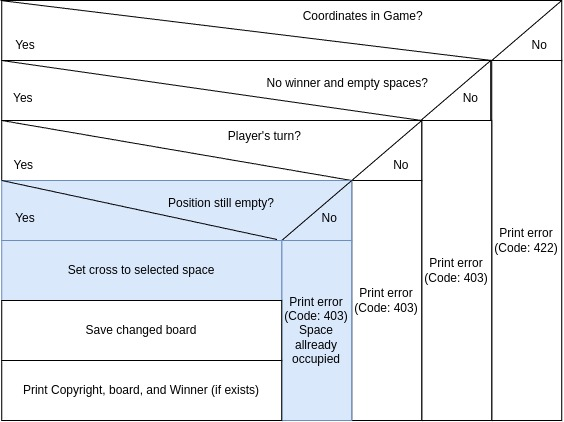
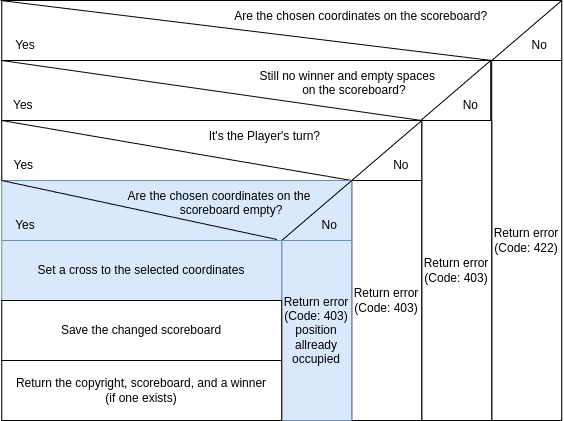
[FIX] change images, fix translation

diff --git a/README.md b/README.md
@@ -1,8 +1,8 @@
-# Apprenticeship Challenge for future IT specialists: Software Development
-You need to successfully solve this challenge, if you want to snatch yourself an apprenticeship at [MÜNSMEDIA GmbH](https://muensmedia.de) as an IT Specialist in Software Development. 👾 🤖 😎
+# Apprenticeship Challenge for Fachinformatiker*in Anwendungsentwicklung
+You need to successfully solve this challenge, if you want to snatch yourself an apprenticeship at [MÜNSMEDIA GmbH](https://muensmedia.de) as a Fachinformatiker*in Anwendungsentwicklung. 👾 🤖 😎
 
 ## Tic-Tac-Toe
-[Tic-Tac-Toe](https://de.wikipedia.org/wiki/Tic-Tac-Toe), noughts and crosses, or Xs and Os is a two-player game, that you're probably already familiar with.
+[Tic-Tac-Toe](https://en.wikipedia.org/wiki/Tic-tac-toe), noughts and crosses, or Xs and Os is a two-player game, that you're probably already familiar with.
 
 ## Gameplay / How it works
 The game board consists of 9 empty spaces, aligned in a three-by-three grid.
@@ -12,43 +12,43 @@ The player who succeeds in placing three of their marks in a horizontal, vertica
 If no winner has been decided after all 9 spaces have been filled, the game ends in a draw.
 
 ### Example: Player X has won
-![X hat gewonnen](https://wikimedia.org/api/rest_v1/media/math/render/svg/595038905e2e65568a90ec43d36a9c2a537c1d0a)
+![X won](https://wikimedia.org/api/rest_v1/media/math/render/svg/595038905e2e65568a90ec43d36a9c2a537c1d0a)
 
-### Exapmle:
-![Unentschieden](https://wikimedia.org/api/rest_v1/media/math/render/svg/5ba8a4fc55e4259c807ef326b28088e6e46d5e42)
+### Example: A tie game
+![tie](https://wikimedia.org/api/rest_v1/media/math/render/svg/5ba8a4fc55e4259c807ef326b28088e6e46d5e42)
 
 # Your Tasks
 
-## 1.) Complete this Struktogramm
+## 1.) Complete this structogram
 
-A Nassi-Shneiderman-Diagram or **Struktogramm** is a diagram to show program drafts as a method for structural programming.
+A Nassi–Shneiderman diagram or **structogram** is a diagram to show program drafts as a method for structural programming.
 
-A Struktogramm contains the following structural blocks, that are nested inside or combined with each other:
+A structogram contains the following structural blocks, that are nested inside or combined with each other:
 
 ### Process
-![](https://upload.wikimedia.org/wikipedia/commons/a/a2/Process_Block2.jpg)
+![process](https://upload.wikimedia.org/wikipedia/commons/a/a2/Process_Block2.jpg)
 
-Every Process (or Chain of Commands), a program should do, are written inside a rectangle block.
+Every process (or chain of commands), a program should do, are written inside a rectangle block.
 
-### If-Case
-![](https://upload.wikimedia.org/wikipedia/commons/7/79/Two-Way_Branch.jpg)
+### Case distinction
+![case](https://upload.wikimedia.org/wikipedia/commons/7/79/Two-Way_Branch.jpg)
 
-If the Condition is met (true), Instruction 1 will run.
+If the condition is met (true), instruction 1 will run.
 
-If the Condition isn't met (false), Instruction 2 will run. Instruction Blocks can also have multiple Instructions.
+If the condition isn't met (false), instruction 2 will run. Instruction blocks can also have multiple instructions.
 
 ### Loop with exit condition (While-Loop)
-![](https://upload.wikimedia.org/wikipedia/commons/b/be/Test_Last.jpg)
+![loop](https://upload.wikimedia.org/wikipedia/commons/b/be/Test_Last.jpg)
 
 It needs at least one loop, because the Repeat condition is checked **after** one loop. If this is true, the loop continues.
 
-### Complete Struktogram for Tic-Tac-Toe Game
+### Complete structogram for Tic-Tac-Toe Game
 
-We started creating a Struktogram for the Tic-Tac-Toe Game, but your future trainer Malte isn't sure about the contents from the parts `(1), (2), (3), (4), (5), (6), (7)`.
+We started creating a structogram for the Tic-Tac-Toe game, but your future trainer Malte isn't sure about the contents from the parts `(1), (2), (3), (4), (5), (6), (7)`.
 
 *Solve this task and email us your solution.*
 
-![tic-tac-toe-struktogramm](./docs/tic-tac-toe-struktogramm.jpg)
+![tic-tac-toe-structogram](./docs/tic-tac-toe-struktogramm.jpg)
 
 ## 2.) Getting ready to code
 Now that you know how Tic-Tac-Toe works, we want to code it together.
@@ -58,7 +58,7 @@ We want to see and work together on your source code. We use the platform GitHub
 ### Please do the following steps:
 - [ ] You [already own a Github-Account](https://github.com/login)  **or** you [create yourself a free GitHub-Account](https://github.com/join)
 - [ ] After signing in to GitHub.com:
-- [ ] Copy our source code to your GitHub-Account. Just [folgenden Link klicken](https://github.com/muensmedia/testaufgabe/generate).
+- [ ] Copy our source code to your GitHub-Account. Just [click here](https://github.com/muensmedia/testaufgabe/generate).
   - **Please set the visibility of the new repository - as default - to 'Public'.**
 - [ ] Now scroll down the newly created GitHub repository until you see these instructions.
 - [ ] You continue from this point in the repository you have just created.
@@ -74,13 +74,13 @@ We want to see and work together on your source code. We use the platform GitHub
 - [ ] In the row `GitHub github.com` click the `three dots` followed by `Edit Permissions`
 - [ ] Additionally select `public_repo` and `repo` and save with `Update permissions`.
 - [ ] Confirm your changes with `Authorize gitpod-io` and your password if applicable
-- [ ] Now open these instructions. To do this, right-click on the file `REDAME.md` and then on `Open Preview`.
+- [ ] Now open these instructions. To do this, right-click on the file `README.md` and then on `Open Preview`.
 - [ ] Continue with the instructions in your Gitpod programming environment.
 
-## 3.) Change Copyright
-Your Tic-Tac-Toe Webapp consists of a frontend and backend part.  
+## 3.) Change copyright
+Your Tic-Tac-Toe webapp consists of a frontend and backend part.  
 As frontend, we use a tool called `Swagger`, so we can try out API's with a graphical interface.
-Swagger is already open, as you open GitPod's Web-IDE.
+Swagger is already open, as you open GitPod's programming environment.
 As backend, we use a [PHP-App](https://www.php.net/manual/en/), based on the framework [Laravel](https://laravel.com/docs/9.x).  
 
 We have prepared a function that displays this game's copyright. ©
@@ -91,15 +91,15 @@ We have prepared a function that displays this game's copyright. ©
 - [ ] Send this request by clicking on `Execute`.
 - You can view the output with the current copyright at `Response body`.
 
-✍🏼 **Change Copyright:**  
-- [ ] Open File [app/app/App/Http/Controllers/CopyrightController.php](app/app/App/Http/Controllers/CopyrightController.php) in Gitpod.
+✍🏼 **Change copyright:**  
+- [ ] Open file [app/app/App/Http/Controllers/CopyrightController.php](app/app/App/Http/Controllers/CopyrightController.php) in Gitpod.
 - [ ] You can find the copyright in a string format on line 18.
-- [ ] Use the ASCII Generator linked in `CopyrightController.php` to create your personal copyright.
+- [ ] Use the ASCII generator linked in `CopyrightController.php` to create your personal copyright.
 - [ ] Replace our copyright `By MÜNSMEDIA GmbH` with your own copyright.
 - [ ] Try your new copyright with Swagger!
 - [ ] You need to save your changes, also named - **commit** (next section).
 
-#### ✅ Create Commit:
+#### ✅ Create commit:
   - Click on the Tab `Source Control` on the left or you can press the keys <kbd>Strg</kbd>+<kbd>Shift</kbd>+<kbd>G</kbd> together.
   - You can type a message above to describe your changes as detailed and meaningful as possible. **Please write your message in English, even if you are a native German speaker**.
   - Save your message with <kbd>Strg</kbd><kbd>⏎</kbd>
@@ -114,7 +114,7 @@ It is still missing the logic it needs when the `/play` API route is called.
 ### Structogram for a turn
 Here is the structogram for one of your turns with the `play()` method.
 
-![](./docs/struktogramm-spielzug.jpg)
+![turn](./docs/struktogramm-spielzug.jpg)
 
 **To-do:**
 - [ ] Take your time to look at the structogram for one of your turns!
@@ -123,12 +123,12 @@ Here is the structogram for one of your turns with the `play()` method.
   - Please complete the missing logic. We left some comments in the source code to help you get started.
 - [ ] Now test it in Swagger. The function there is also called `/play`.
 - [ ] **❌ To reset the scoreboard, you can use the `DELETE /board` method in Swagger**
-- [ ] ✅ Create a Commit (see above `create Commit`)
+- [ ] ✅ Create a commit (see above `Create commit`)
 - [ ] 🔁 Click the button `Sync changes` to upload your changes to GitHub.
 
 ## 5.) 🤖 Turn - /play-bot
 We have already written a 🤖 (Bot) for you, so you can play against him.  
-Open Swagger and alternate between the `/play` and `/play-bot` API route (first turn is yours).
+Open Swagger and alternate between the `/play` and `/play-bot` API route (the first turn is yours).
 
 ## 6.) NO CHEATING! - <kbd>↑</kbd><kbd>↑</kbd><kbd>↓</kbd><kbd>↓</kbd><kbd>←</kbd><kbd>→</kbd><kbd>←</kbd><kbd>→</kbd><kbd>B</kbd><kbd>A</kbd>
 Currently, you or the bot can play multiple turns in a row, although you are supposed to take turns.
@@ -138,7 +138,7 @@ Of course, it's no fun like that 😞!
 - [ ] In file [app/app/App/Http/Controllers/GameController.php](app/app/App/Http/Controllers/GameController.php) the `isAllowedToPlay()` method on line 144 still needs some logic.
   - Please complete the missing logic. We left some comments in the source code to help you get started.
 - [ ] Thoroughly test your changes in Swagger.
-- [ ] ✅ Create a Commit (see above `create Commit`)
+- [ ] ✅ Create a commit (see above `Create commit`)
 - [ ] 🔁 Click the button `Sync changes` to upload your changes to GitHub.
 
 ## 7.) Who's the winner? 🏆 
@@ -146,16 +146,16 @@ Currently, the game is unable to display a winner.
 Now it's your task, to do this.
 
 **To-do:**
-- [ ] Currently, the Method `whoHasWon()` in [app/app/App/Http/Controllers/GameController.php](app/app/App/Http/Controllers/GameController.php) at Line 104 has no game logic.
+- [ ] Currently, the method `whoHasWon()` in [app/app/App/Http/Controllers/GameController.php](app/app/App/Http/Controllers/GameController.php) at line 104 has no game logic.
   - Add the missing logic. We created some hints for you as comments in the code.
 - [ ] Test your changes with Swagger as detailed as possible.
-- [ ] ✅ Create a Commit (see above `Create Commit`)
+- [ ] ✅ Create a commit (see above `Create commit`)
 - [ ] 🔁 Click on `Sync changes` to upload your changes to GitHub.
 
 ## Additional tasks
-You had fun by solving these small tasks above and you want more? **Ok, no Problem 😈!**
+You had fun by solving these small tasks above and you want more? **Ok, no problem 😈!**
 
-### 8.) Make the Method someoneHasWon() prettier ✨
+### 8.) Make the method someoneHasWon() prettier ✨
 The method `someoneHasWon()` at [app/app/App/Http/Controllers/GameController.php](app/app/App/Http/Controllers/GameController.php) is currently ugly.  
 Can you simplify this, by using some loops?  
 It can be useful, to look at **public-methods** from `$game`:
@@ -165,7 +165,7 @@ It can be useful, to look at **public-methods** from `$game`:
 **To-do:**
 - [ ] Make method `someoneHasWon()` prettier
 - [ ] Test your changes with Swagger as detailed as possible.
-- [ ] ✅ Create a Commit (see above `Create Commit`)
+- [ ] ✅ Create a commit (see above `Create commit`)
 - [ ] 🔁 Click on `Sync changes` to upload your changes to GitHub.
 
 ### 9.) 4x4 Tic-Tac-Toe 😈
@@ -174,12 +174,12 @@ Also look closer at the class [app/app/Components/GameBoard/GameBoard.php](app/a
 
 **To-do:**
 - [ ] Try to make a 4x4 Tic-Tac-Toe
-  - You will need your changes from Task 7.)
+  - You will need your changes from task 7.)
 - [ ] Test your changes with Swagger as detailed as possible.
-- [ ] ✅ Create a Commit (see above `Create Commit`)
+- [ ] ✅ Create a commit (see above `Create commit`)
 - [ ] 🔁 Click on `Sync changes` to upload your changes to GitHub.
 
 # ➡ And what's next?
-Once you are done, sent your Solution for task 1 and your GitHub-Repository link via E-Mail.  
+Once you are done, sent your solution for task 1 and your GitHub-Repository link via E-Mail.  
 We will analyse your solution and if you are one of the 5 best applicants, we will invite you to a personal meeting, so we can get to know you better.  
 See you soon!
